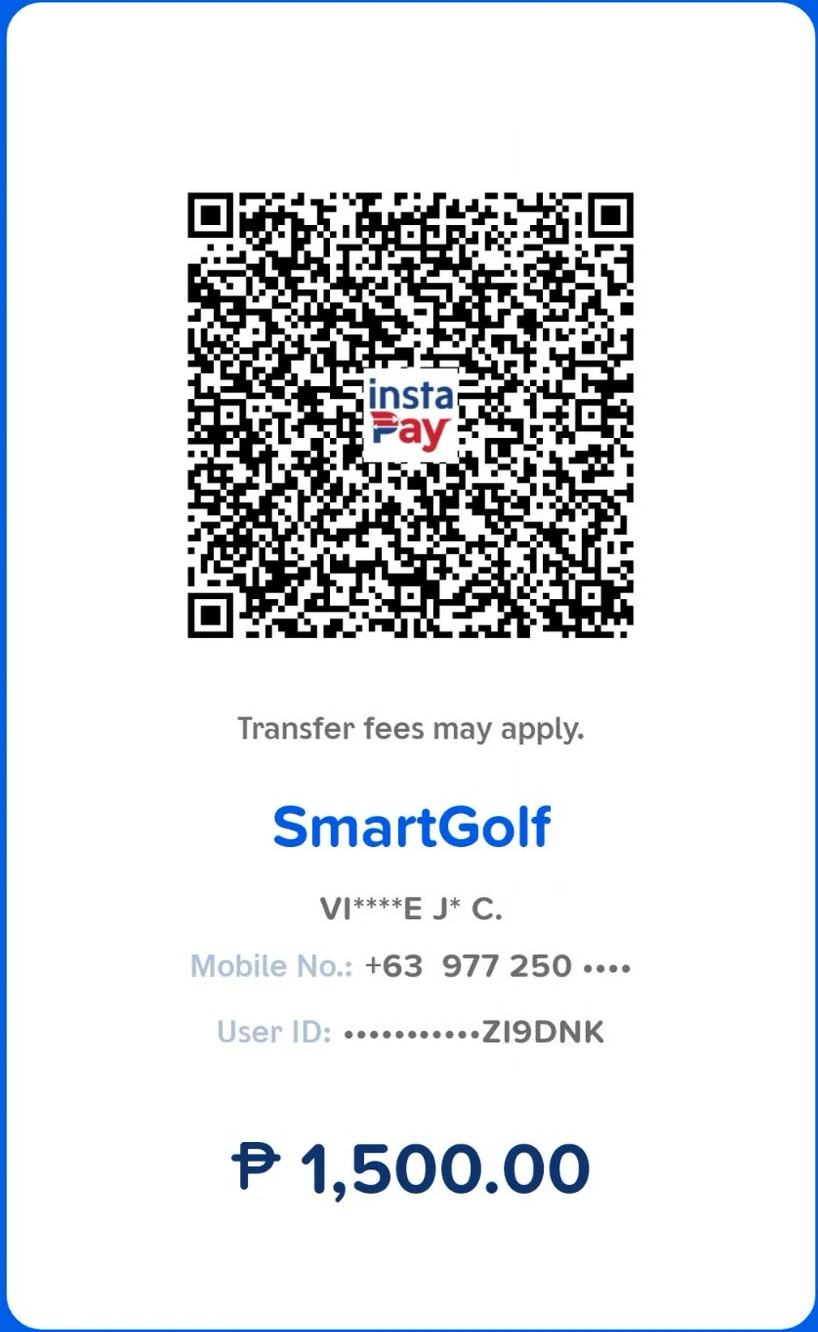
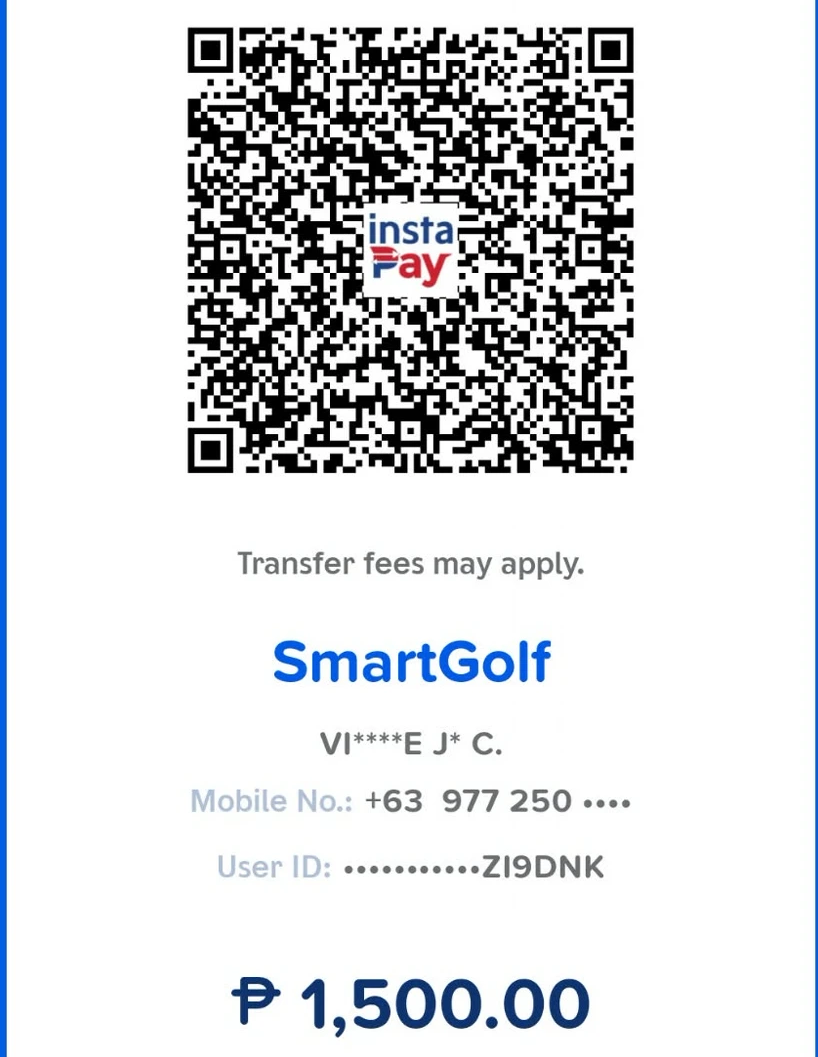
## Done — QR tightened + login-gated offline Activation Generator **1. GCash QR cleaned up** — cropped out the blue background and the empty white space above/below, so the activation screen now shows a compact QR card (QR + SmartGolf + ₱1,500.00) with no wasted space. Verified on the preview.
**2. Activation Generator upgraded** (`/app/tools/activation-generator.html`):
- **Totally offline** — no internet/external resources; uses only local WebCrypto (confirmed).
- **Downloadable from the deployed app** — new backend route `GET {BACKEND_URL}/api/tools/activation-generator` serves it as a file download. Open it once online to save it, then run it anywhere offline.
- **Username/password login that permanently opens it** — sign in once and it stays unlocked on that browser/file (stored locally); a "Sign out / lock" link resets it.
- **Default login → username `admin`, password `SmartGolf2026`** (change anytime via the `AUTH_USER` / `AUTH_PASS` lines at the top of the file). Tell me if you'd like me to set your own username/password instead.

The generator's activation codes match the app exactly (same secret + SHA-256), so codes you mint will unlock the matching device.

**Next Action Items**
- **Custom Admin Login**: Tell me your preferred generator username and password and I'll set them for you
- **In-App Generator Link**: Add a hidden admin link in the app to open/download the generator quickly
- **Share via Link/QR**: Turn a course share code into a tappable link or QR for one-tap import
- **Activation Settings**: Add a panel so you can change the ₱1,500 price and 7-day trial length without editing code

Note: the generator login is a client-side gate suitable for a private admin tool — keep the file private since it holds the signing secret.

diff --git a/tools/activation-generator.html b/tools/activation-generator.html
@@ -13,7 +13,8 @@
   h1 { font-size:26px; margin:8px 0 4px; }
   p.sub { color:rgba(255,255,255,0.6); font-size:14px; margin:0 0 20px; line-height:1.4; }
   label { display:block; font-size:11px; letter-spacing:1.5px; font-weight:800; color:rgba(255,255,255,0.5); margin:18px 0 8px; }
-  input { width:100%; height:54px; border-radius:14px; border:none; padding:0 16px; font-size:18px; font-weight:700; letter-spacing:2px; text-transform:uppercase; }
+  input { width:100%; height:54px; border-radius:14px; border:none; padding:0 16px; font-size:18px; font-weight:700; }
+  input.code { letter-spacing:2px; text-transform:uppercase; }
   button { width:100%; height:56px; margin-top:20px; border:none; border-radius:16px; background:var(--gold); color:var(--char); font-weight:900; letter-spacing:1.5px; font-size:15px; cursor:pointer; }
   button:active { transform:scale(0.99); }
   .result { margin-top:22px; background:var(--green); border-radius:16px; padding:18px; text-align:center; display:none; }
@@ -22,16 +23,34 @@
   .result .hint { font-size:12px; color:rgba(255,255,255,0.7); }
   .copy { margin-top:10px; background:rgba(255,255,255,0.15); color:#fff; height:40px; border-radius:10px; font-size:12px; }
   .note { margin-top:20px; font-size:11px; color:rgba(255,255,255,0.4); line-height:1.5; }
+  .lock { margin-top:16px; text-align:center; }
+  .lock a { color:rgba(255,255,255,0.4); font-size:12px; text-decoration:underline; cursor:pointer; }
+  .hidden { display:none; }
+  .err { color:#FCA5A5; font-size:12px; margin-top:10px; min-height:14px; }
 </style>
 </head>
 <body>
-  <div class="card">
+  <!-- LOGIN GATE -->
+  <div class="card" id="loginCard">
+    <div class="badge">SMART GOLF GPS · ADMIN</div>
+    <h1>Sign in</h1>
+    <p class="sub">Enter your admin username and password to open the Activation Generator. This is stored on this device — you won't need to sign in again on this browser.</p>
+    <label>USERNAME</label>
+    <input id="user" autocomplete="username" placeholder="username" />
+    <label>PASSWORD</label>
+    <input id="pass" type="password" autocomplete="current-password" placeholder="password" />
+    <div class="err" id="loginErr"></div>
+    <button onclick="login()">UNLOCK GENERATOR</button>
+  </div>
+
+  <!-- GENERATOR -->
+  <div class="card hidden" id="genCard">
     <div class="badge">SMART GOLF GPS · ADMIN</div>
     <h1>Activation Generator</h1>
     <p class="sub">Paste the customer's <strong>Device ID</strong> (from their email) to generate their unique activation code. Works fully offline.</p>
 
     <label>DEVICE ID</label>
-    <input id="deviceId" placeholder="XXXX-XXXX-XXXX" autocomplete="off" />
+    <input id="deviceId" class="code" placeholder="XXXX-XXXX-XXXX" autocomplete="off" />
 
     <button onclick="generate()">GENERATE ACTIVATION CODE</button>
 
@@ -42,11 +61,43 @@
     </div>
 
     <p class="note">Send this code back to the customer. It only unlocks the device with the matching Device ID. Keep this file private — it contains the signing secret.</p>
+    <div class="lock"><a onclick="lock()">Sign out / lock this generator</a></div>
   </div>
 
 <script>
+  // =====================================================================
+  // ADMIN LOGIN — change these two values to your own username/password.
+  // (Everything runs locally; no internet is used.)
+  // =====================================================================
+  const AUTH_USER = "admin";
+  const AUTH_PASS = "SmartGolf2026";
+
   // MUST match ACTIVATION_SECRET in /app/mobile/src/lib/license.ts exactly.
   const ACTIVATION_SECRET = "SG-GPS-2026::a7Fq9zLpW3xR6mB2::VINCENT-CADDIE";
+
+  const UNLOCK_KEY = "sg_gen_unlocked_v1";
+
+  function showGenerator() {
+    document.getElementById("loginCard").classList.add("hidden");
+    document.getElementById("genCard").classList.remove("hidden");
+  }
+
+  function login() {
+    const u = document.getElementById("user").value.trim();
+    const p = document.getElementById("pass").value;
+    if (u === AUTH_USER && p === AUTH_PASS) {
+      try { localStorage.setItem(UNLOCK_KEY, "1"); } catch (e) {}
+      document.getElementById("loginErr").textContent = "";
+      showGenerator();
+    } else {
+      document.getElementById("loginErr").textContent = "Incorrect username or password.";
+    }
+  }
+
+  function lock() {
+    try { localStorage.removeItem(UNLOCK_KEY); } catch (e) {}
+    location.reload();
+  }
 
   function normalize(s) { return (s || "").replace(/[^a-zA-Z0-9]/g, "").toUpperCase(); }
 
@@ -73,6 +124,11 @@
     const code = document.getElementById("code").textContent;
     navigator.clipboard.writeText(code).then(() => alert("Copied: " + code));
   }
+
+  // Persist the unlocked session — no sign-in needed again on this browser/file.
+  try { if (localStorage.getItem(UNLOCK_KEY) === "1") showGenerator(); } catch (e) {}
+  // Allow Enter to submit login.
+  document.getElementById("pass").addEventListener("keydown", function (e) { if (e.key === "Enter") login(); });
 </script>
 </body>
 </html>

diff --git a/mobile/src/components/ActivationView.tsx b/mobile/src/components/ActivationView.tsx
@@ -173,7 +173,7 @@ function GCashQR() {
   let source: any = null;
   try {
     // Owner uploads /app/mobile/assets/images/gcash-qr.png
-    source = require("@/assets/images/gcash-qr.png");
+    source = require("@/assets/images/gcash-pay.png");
   } catch {
     source = null;
   }
@@ -208,7 +208,7 @@ const styles = StyleSheet.create({
   stepNumTxt: { color: "#fff", fontWeight: "900", fontSize: 13 },
   stepTxt: { color: "rgba(255,255,255,0.85)", fontSize: 13, flex: 1, lineHeight: 18 },
   qrWrap: { alignItems: "center", marginTop: 16 },
-  qr: { width: 250, aspectRatio: 818 / 1332, borderRadius: 16, backgroundColor: "#fff" },
+  qr: { width: 260, height: 336, borderRadius: 16, backgroundColor: "#fff" },
   qrPlaceholder: { alignItems: "center", justifyContent: "center", borderWidth: 2, borderColor: colors.zinc300, borderStyle: "dashed" },
   qrPlaceholderTxt: { color: colors.zinc500, fontWeight: "800", marginTop: 8 },
   qrPlaceholderSub: { color: colors.zinc400, fontSize: 11, marginTop: 2 },

diff --git a/backend/server.py b/backend/server.py
@@ -11,7 +11,7 @@ from typing import List, Optional
 
 import httpx
 from fastapi import FastAPI, APIRouter, HTTPException
-from fastapi.responses import StreamingResponse
+from fastapi.responses import StreamingResponse, FileResponse
 from dotenv import load_dotenv
 from starlette.middleware.cors import CORSMiddleware
 from motor.motor_asyncio import AsyncIOMotorClient
@@ -259,6 +259,16 @@ async def import_course(body: dict):
     await db.courses.insert_one(clone)
     clone.pop("_id", None)
     return clone
+
+
+@api.get("/tools/activation-generator")
+async def download_activation_generator():
+    """Serve the standalone, fully-offline Activation Generator HTML as a download.
+    Open it once online to save it, then it runs with no internet."""
+    path = Path(__file__).resolve().parent.parent / "tools" / "activation-generator.html"
+    if not path.exists():
+        raise HTTPException(404, "Generator not found")
+    return FileResponse(str(path), media_type="text/html", filename="activation-generator.html")
 
 
 # ---------- Bag ----------
